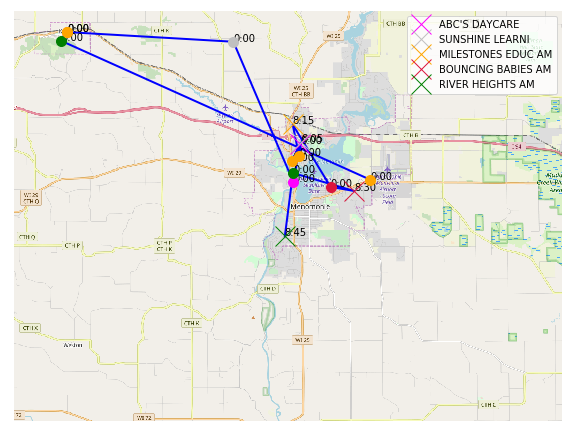
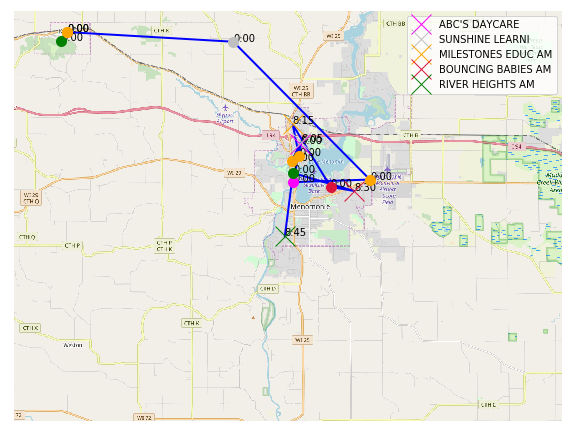
1000 inter-route swaps and 500 intra-route swaps
This is a trial run used 1000 swaps between the routes (inter-route swapping) and 500 swaps within each route (intra-route swapping). The results are good but almost none (if any, I didn't check too closely) of the clusters were changed. In fact, most of the csv is unchanged from when I conducted the same trial with no inter-route swapping.

diff --git a/Routing.py b/Routing.py
@@ -136,8 +136,8 @@ for i in range(numPmRoutes):
 
 print("Swap")
 #improve the routes with random swapping
-#amRoutes = ro.randomSwaps(amRoutes, masterDistanceMatrix, 100)
-#pmRoutes = ro.randomSwaps(pmRoutes, masterDistanceMatrix, 100)
+amRoutes = ro.randomSwaps(amRoutes, masterDistanceMatrix, 1000)
+pmRoutes = ro.randomSwaps(pmRoutes, masterDistanceMatrix, 1000)
 
 import smopy
 map = smopy.Map(( 44.82,-92.02, 44.95,-91.8))
